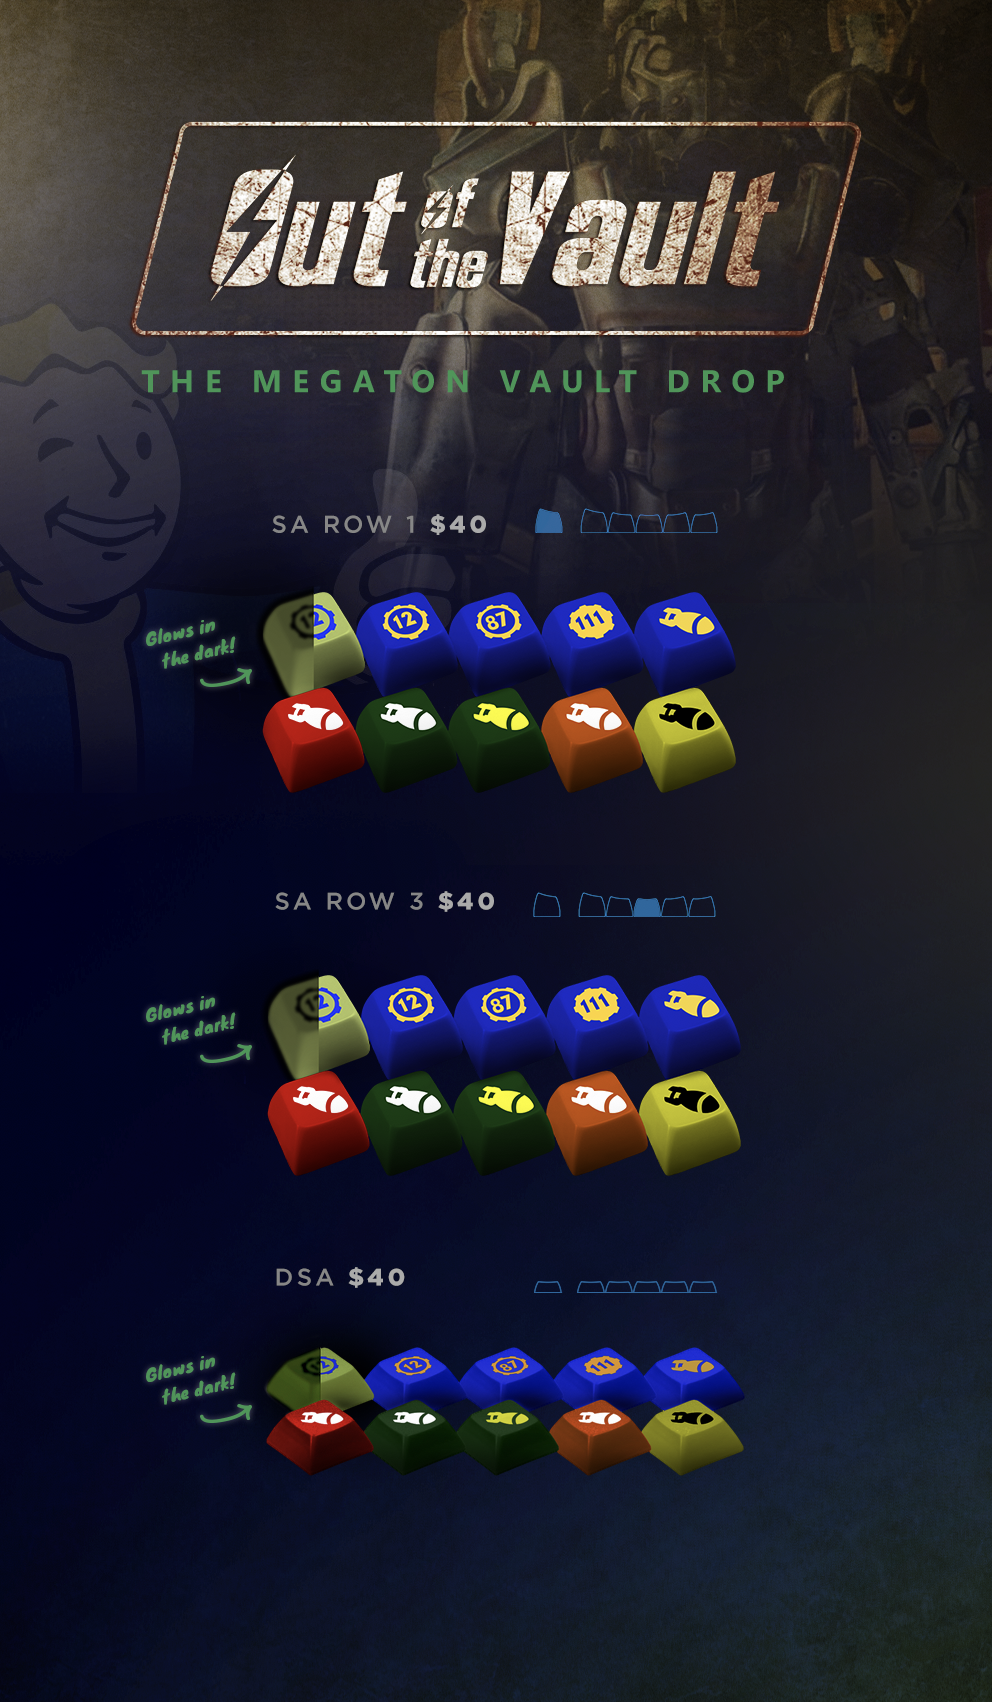
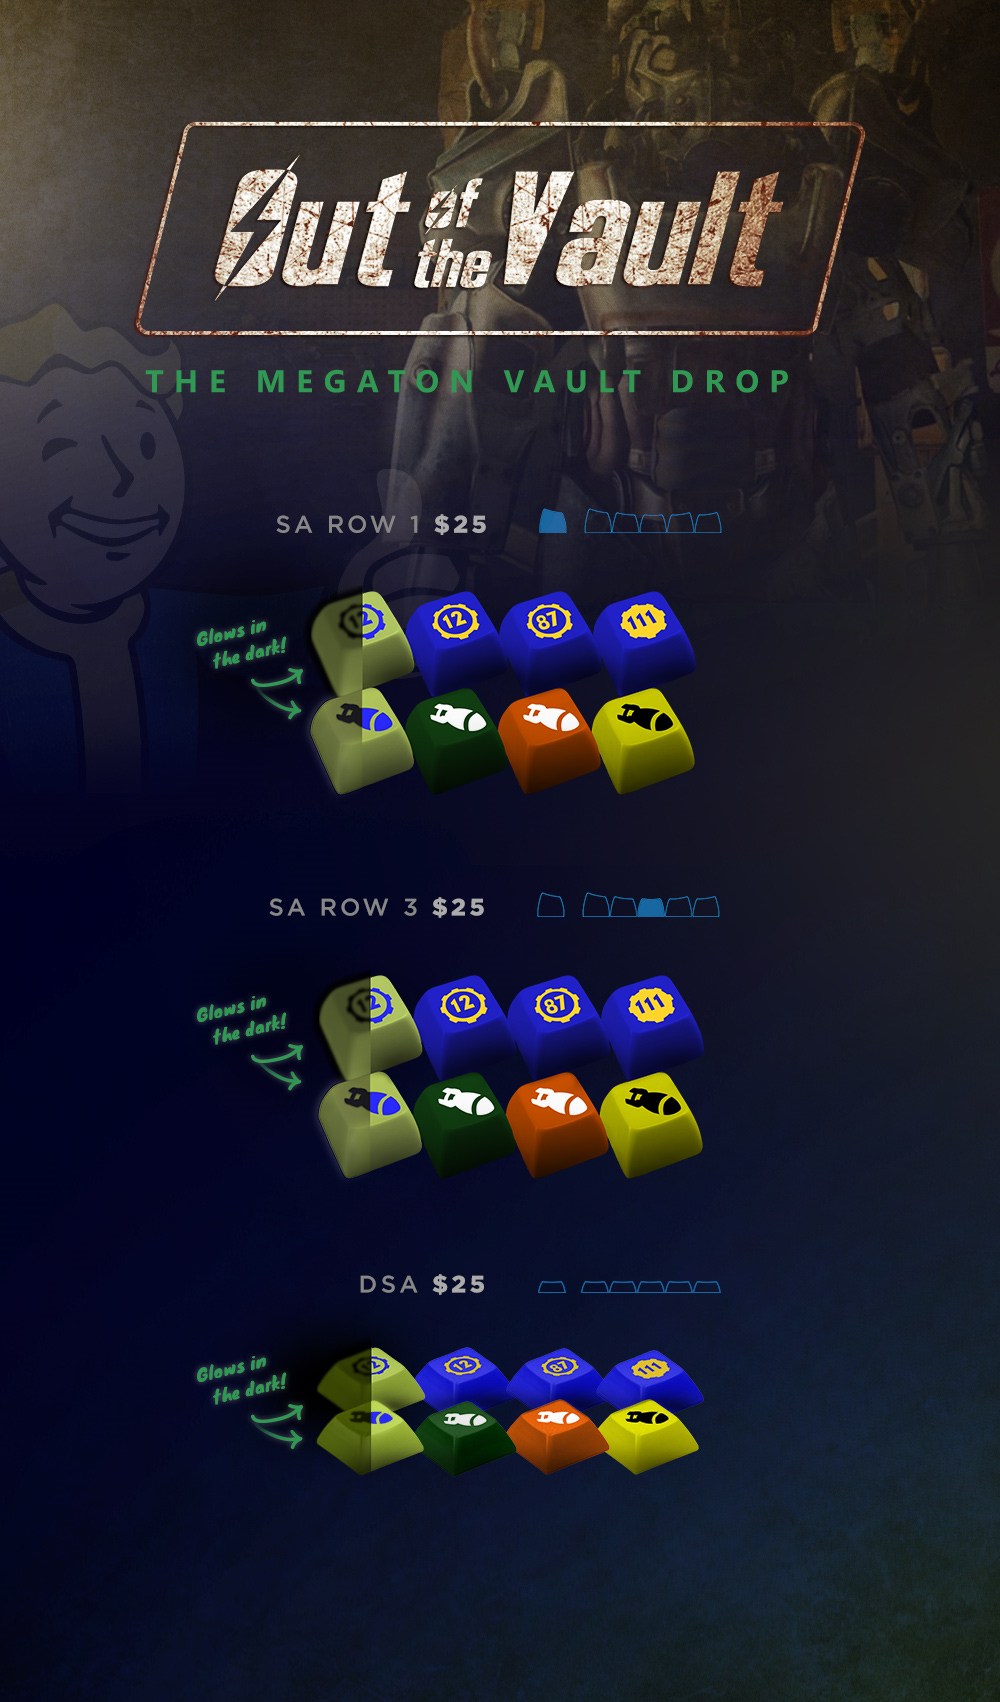
Key change update

diff --git a/contents/gbs/megatonvaultdrop/index.md b/contents/gbs/megatonvaultdrop/index.md
@@ -38,7 +38,7 @@ gblinks:
 template: groupbuy.jade
 ---
 
-Some keys have been removed from the mock-ups that are on display. Please bare with us as we try to streamline the available keys for maximum appeal.
+This is the latest edition in the 'Out of the Vault' series! Three kits in different profiles are availble, which have eight keys each, including two that glow in the dark!
 
 <span class="more">
 
